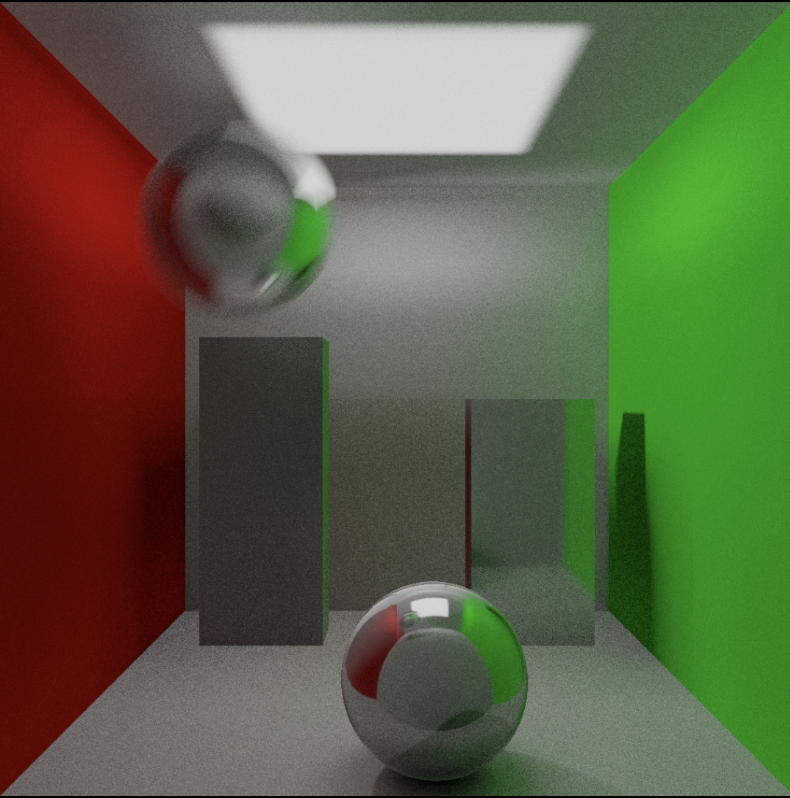
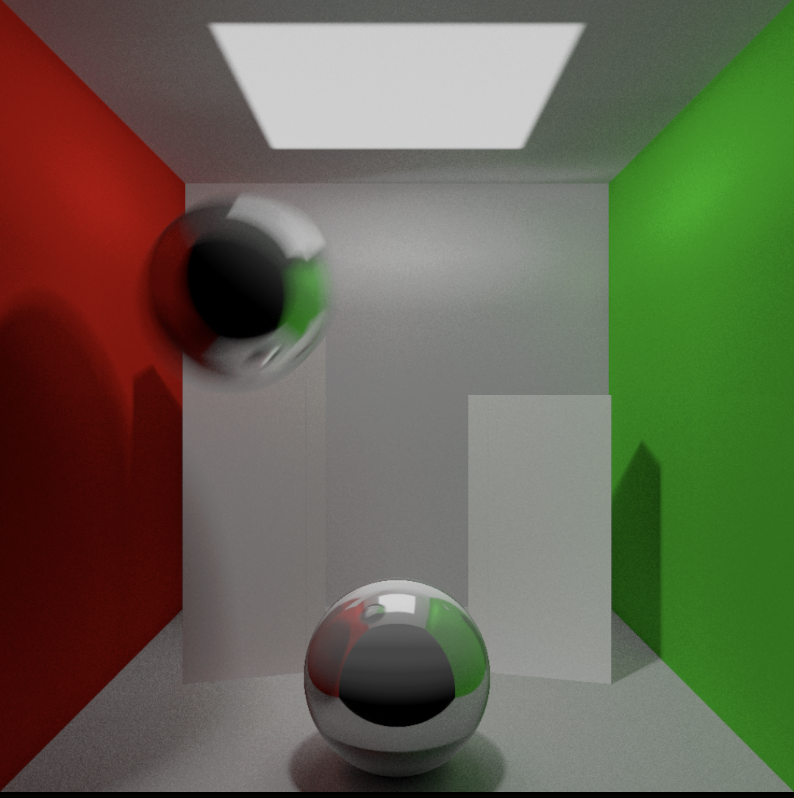
transform supported for cornell box scene

diff --git a/app/src/main/java/com/ragnarok/raytracing/scenes/cornellbox.kt b/app/src/main/java/com/ragnarok/raytracing/scenes/cornellbox.kt
@@ -12,18 +12,20 @@ val cornellBox = """
     const int MOVE_SPHERE_NUMS = 1;
     Cube cornellBox = Cube(vec3(-1.0, -1.0, -1.0), vec3(1.0, 1.0, 1.0), createNormalMaterial(vec3(0.5), 0.0, 1.0, 0.1));
     Cube boxCubes[BOX_NUMS] = Cube[BOX_NUMS](
-        Cube(vec3(0.3, -1.0, -0.75), vec3(0.8, 0.0, -0.5), createNormalMaterial(vec3(0.5), 1.0, 0.2, 1.0)),
-        Cube(vec3(-0.8, -1.0, -0.75), vec3(-0.3, 0.25, -0.5), createNormalMaterial(vec3(0.5), 0.1, 1.0, 0.2))
+        Cube(vec3(0.2, -1.0, -0.5), vec3(0.7, 0.0, -0.25), createNormalMaterial(vec3(1.0), 0.01, 1.0, 0.01)),
+        Cube(vec3(-0.7, -1.0, -0.5), vec3(-0.2, 0.25, -0.25), createNormalMaterial(vec3(0.75), 0.01, 1.0, 0.01))
     );
     Sphere boxSpheres[SPHERE_NUMS] = Sphere[SPHERE_NUMS](
-        Sphere(vec3(0.1, -0.75, 0.5), 0.25, createNormalMaterial(vec3(0.5), 1.0, 0.1, 1.0))
+        Sphere(vec3(0.0, -0.75, 0.5), 0.25, createNormalMaterial(vec3(0.5), 1.0, 0.1, 1.0))
     );
     MoveSphere moveSpheres[MOVE_SPHERE_NUMS] = MoveSphere[MOVE_SPHERE_NUMS](
-        MoveSphere(vec3(-0.4, 0.5, 0.5), vec3(-0.45, 0.45, 0.5), 0.25, createNormalMaterial(vec3(0.5), 1.0, 0.1, 1.0))
+        MoveSphere(vec3(-0.4, 0.3, 0.5), vec3(-0.45, 0.25, 0.5), 0.25, createNormalMaterial(vec3(0.5), 1.0, 0.1, 1.0))
     );
-    Plane emissivePlane = Plane(vec3(0.0, 0.95, 0.0), normalize(vec3(0.0, 1.0, 0.0)), 0.5, createEmissiveMaterial(vec3(1.0), vec3(1.0) * 5.0f, 0.01, 1.0, 0.1));
+    Plane emissivePlane = Plane(vec3(0.0, 0.98, 0.0), normalize(vec3(0.0, 1.0, 0.0)), 0.5, createEmissiveMaterial(vec3(1.0), vec3(1.0) * 5.0f, 0.01, 1.0, 0.1));
     
-    PointLight pointLight = PointLight(vec3(-0.8, 0.5, -0.7), 0.1, vec3(1.0), 3.0);
+    PointLight pointLight = PointLight(vec3(0.0, 0.95, 0.7), 0.1, vec3(1.0), 3.0);
+    
+    uniform mat4 cubeTransform[BOX_NUMS];
     
     // scene intersect
     $intersectSceneFuncHead {
@@ -44,9 +46,11 @@ val cornellBox = """
             } else if (hit.x > delta) {
                 material.color = vec3(0.0, 1.0, 0.0);
             } else if (hit.y < -1.0 * delta || hit.y > delta) {
-                material.color =  vec3(0.5);
+                material.color =  vec3(0.75);
             } else if (hit.z < -1.0 * delta) {
-                material.color = vec3(0.5);
+                material.color = vec3(0.75);
+            } else {
+                material.color = vec3(0.0);
             }
         }
         
@@ -62,10 +66,13 @@ val cornellBox = """
         }
 
         for (int i = 0; i < BOX_NUMS; i++) {
-            intersect = intersectCube(ray, boxCubes[i]);
+            Ray transformRay = ray;
+            transformRay.origin = vec3(cubeTransform[i] * vec4(ray.origin, 1.0)); 
+            transformRay.direction = vec3(cubeTransform[i] * vec4(ray.direction, 1.0));
+            intersect = intersectCube(transformRay, boxCubes[i]);
             if (intersect.nearFar.x > 1.0 && intersect.nearFar.x < intersect.nearFar.y && intersect.nearFar.x < t) {
                 t = intersect.nearFar.x;
-                hit = pointAt(ray, t);
+                hit = pointAt(transformRay, t);
                 normal = normalForCube(hit, boxCubes[i]);
                 material = boxCubes[i].material;
             }
@@ -110,7 +117,10 @@ val cornellBox = """
         Intersection intersect;
         float shadow = 1.0;
         for (int i = 0; i < BOX_NUMS; i++) {
-            intersect = intersectCube(shadowRay, boxCubes[i]);
+            Ray transformRay = shadowRay;
+            transformRay.origin = vec3(cubeTransform[i] * vec4(shadowRay.origin, 1.0)); 
+            transformRay.direction = vec3(cubeTransform[i] * vec4(shadowRay.direction, 1.0));
+            intersect = intersectCube(transformRay, boxCubes[i]);
 
             if (intersect.nearFar.x > 0.0 && intersect.nearFar.x < 1.0 && intersect.nearFar.x < intersect.nearFar.y) {
                 shadow = 0.0;

diff --git a/app/src/main/java/com/ragnarok/raytracing/renderer/RayTracingRenderer.kt b/app/src/main/java/com/ragnarok/raytracing/renderer/RayTracingRenderer.kt
@@ -13,6 +13,7 @@ import com.ragnarok.raytracing.scenes.spherePlane
 import com.ragnarok.raytracing.scenes.texture_spheres
 import com.ragnarok.raytracing.utils.*
 import glm_.glm
+import glm_.mat3x3.Mat3
 import glm_.mat4x4.Mat4
 import glm_.vec3.Vec3
 import rangarok.com.androidpbr.utils.*
@@ -187,6 +188,15 @@ class RayTracingRenderer(private val context: Context, private val scene: Int) :
         //TODO: fix struct assignemnt
         //TODO: add normal map support
         when (scene) {
+            Scenes.CORNELL_BOX -> {
+                rayTracingShader?.apply {
+                    enable()
+                    setMat4("cubeTransform[0]", Mat4(1.0).rotate(glm.radians(-15f), Vec3(0.0, 1.0, 0.0)).inverse())
+                    setMat4("cubeTransform[1]", Mat4(1.0).rotate(glm.radians(15f), Vec3(0.0, 1.0, 0.0)).inverse())
+
+                    disable()
+                }
+            }
             Scenes.TEXTURE_SPHERE -> {
                 checkInitTextureSphereSceneTextures()
 

diff --git a/app/src/main/java/com/ragnarok/raytracing/scenes/glassMaterials.kt b/app/src/main/java/com/ragnarok/raytracing/scenes/glassMaterials.kt
@@ -10,8 +10,8 @@ val glassMaterials = """
         Plane plane = Plane(vec3(0.0, 0.0, 0.0), normalize(vec3(0.0, 1.0, 0.0)), 1.5, createNormalMaterial(vec3(0.5), 0.0, 1.0, 0.1));
         const int SPHERE_NUMS = 3;
         Sphere spheres[SPHERE_NUMS] = Sphere[SPHERE_NUMS](
-            Sphere(vec3(-0.7, 0.3, 0.3), 0.3, createGlassMaterial(vec3(0.8, 0.3, 0.3), 1.01)),
-            Sphere(vec3(-0.0, 0.3, 0.3), 0.3, createGlassMaterial(vec3(0.3, 0.8, 0.3), 1.02)),
+            Sphere(vec3(-0.7, 0.6, 0.3), 0.3, createGlassMaterial(vec3(0.8, 0.3, 0.3), 1.01)),
+            Sphere(vec3(-0.0, 0.4, 0.3), 0.3, createGlassMaterial(vec3(0.3, 0.8, 0.3), 1.02)),
             Sphere(vec3(0.7, 0.3, 0.3), 0.3, createGlassMaterial(vec3(0.3, 0.3, 0.8), 1.03))
         ); 
 

diff --git a/README.md b/README.md
@@ -14,7 +14,7 @@ A simple realtime Path Tracer demo for android implemented with GLES 3.0
 
 - Simple Texture Supported
 
-Check the screenshot in the [Screenshot/](screenshot/) folder
+Check the screenshot in the [screenshot/](screenshot/) folder
 
 Known problems:
 
